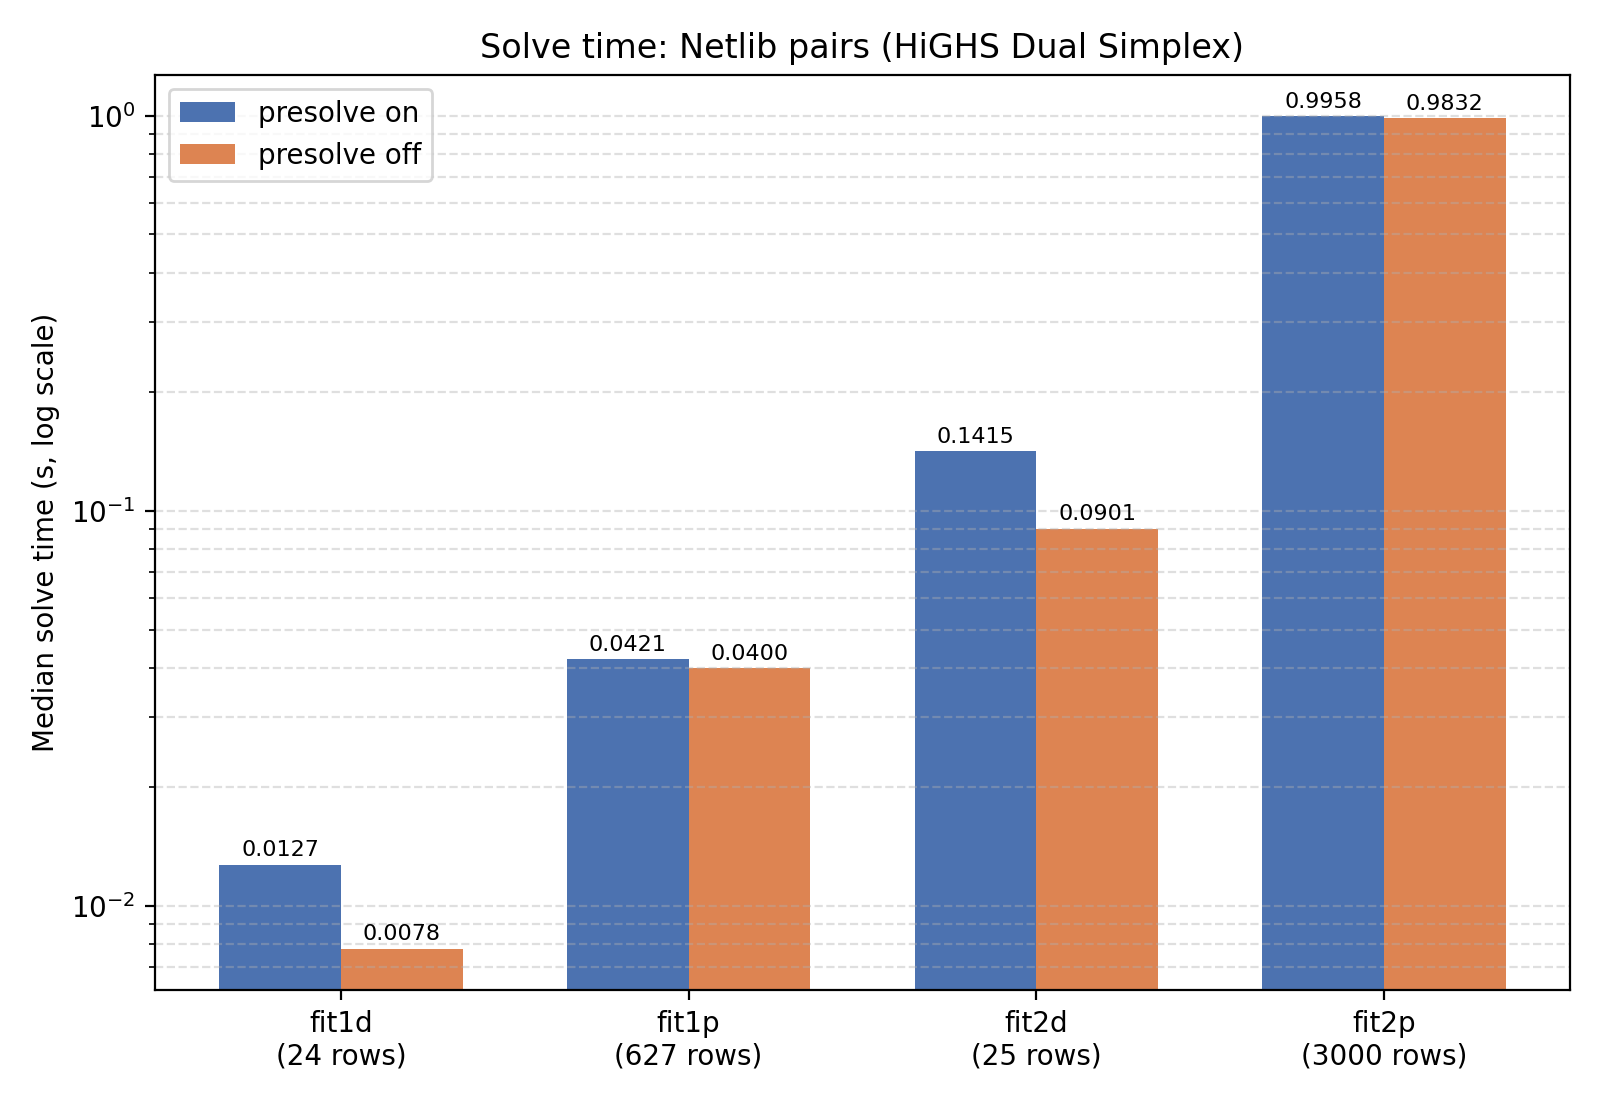
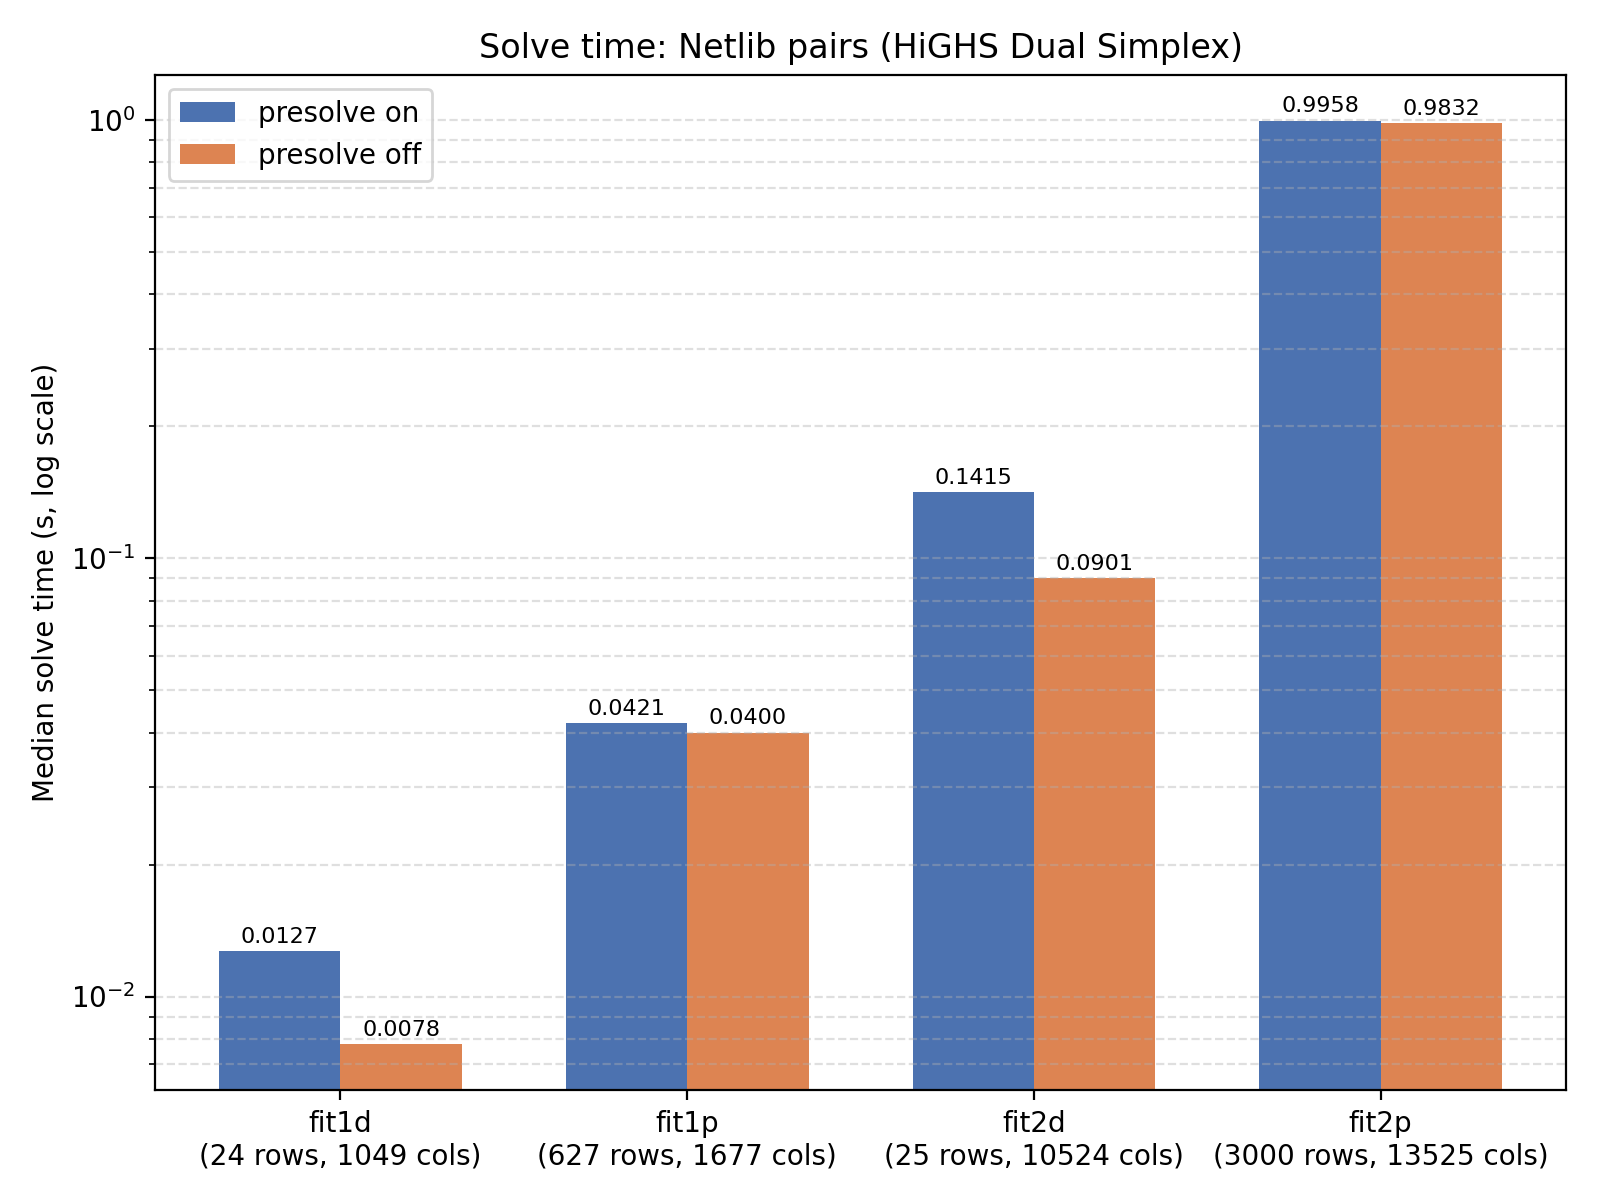
yuh

diff --git a/a2/plot.py b/a2/plot.py
@@ -1,9 +1,3 @@
-"""
-plot.py
-Produces a grouped bar chart (median solve time, log scale).
-Usage: python plot.py <input.json> <output.png> <"Plot Title">
-"""
-
 import sys
 import json
 import numpy as np
@@ -13,19 +7,20 @@ def load_results(path):
     with open(path) as f:
         data = json.load(f)
     
-    # Extract method name for the title if not provided
+
     method_name = data[0].get("method", "Solver")
     
     ORDER = ["lp_fit1d", "lp_fit1p", "lp_fit2d", "lp_fit2p"]
     by_instance = {name: {} for name in ORDER}
-    rows = {}
+    dims = {}
     
     for row in data:
         name = row["instance"]
         by_instance.setdefault(name, {})[row["presolve"]] = row["median_time_s"]
-        rows[name] = row["m"]
+        # Save both rows (m) and columns (n)
+        dims[name] = (row["m"], row["n"])
         
-    return by_instance, rows, method_name
+    return by_instance, dims, method_name
 
 def main():
     if len(sys.argv) < 3:
@@ -35,19 +30,24 @@ def main():
     input_path = sys.argv[1]
     output_path = sys.argv[2]
     
-    by_instance, rows, method_name = load_results(input_path)
+    by_instance, dims, method_name = load_results(input_path)
     
     title = sys.argv[3] if len(sys.argv) > 3 else f"Solve time: real Netlib primal/dual pairs ({method_name})"
 
     present = [name for name in by_instance.keys() if by_instance[name]]
-    labels = [f"{name.replace('lp_', '')}\n({rows[name]} rows)" for name in present]
+    
+    labels = [
+        f"{name.replace('lp_', '')}\n({dims[name][0]} rows, {dims[name][1]} cols)" 
+        for name in present
+    ]
+    
     on_times = [by_instance[name].get(True) for name in present]
     off_times = [by_instance[name].get(False) for name in present]
 
     x = np.arange(len(present))
     width = 0.35
 
-    fig, ax = plt.subplots(figsize=(8, 5.5))
+    fig, ax = plt.subplots(figsize=(8, 6))
     bars_on = ax.bar(x - width / 2, on_times, width, label="presolve on", color="#4C72B0")
     bars_off = ax.bar(x + width / 2, off_times, width, label="presolve off", color="#DD8452")
 